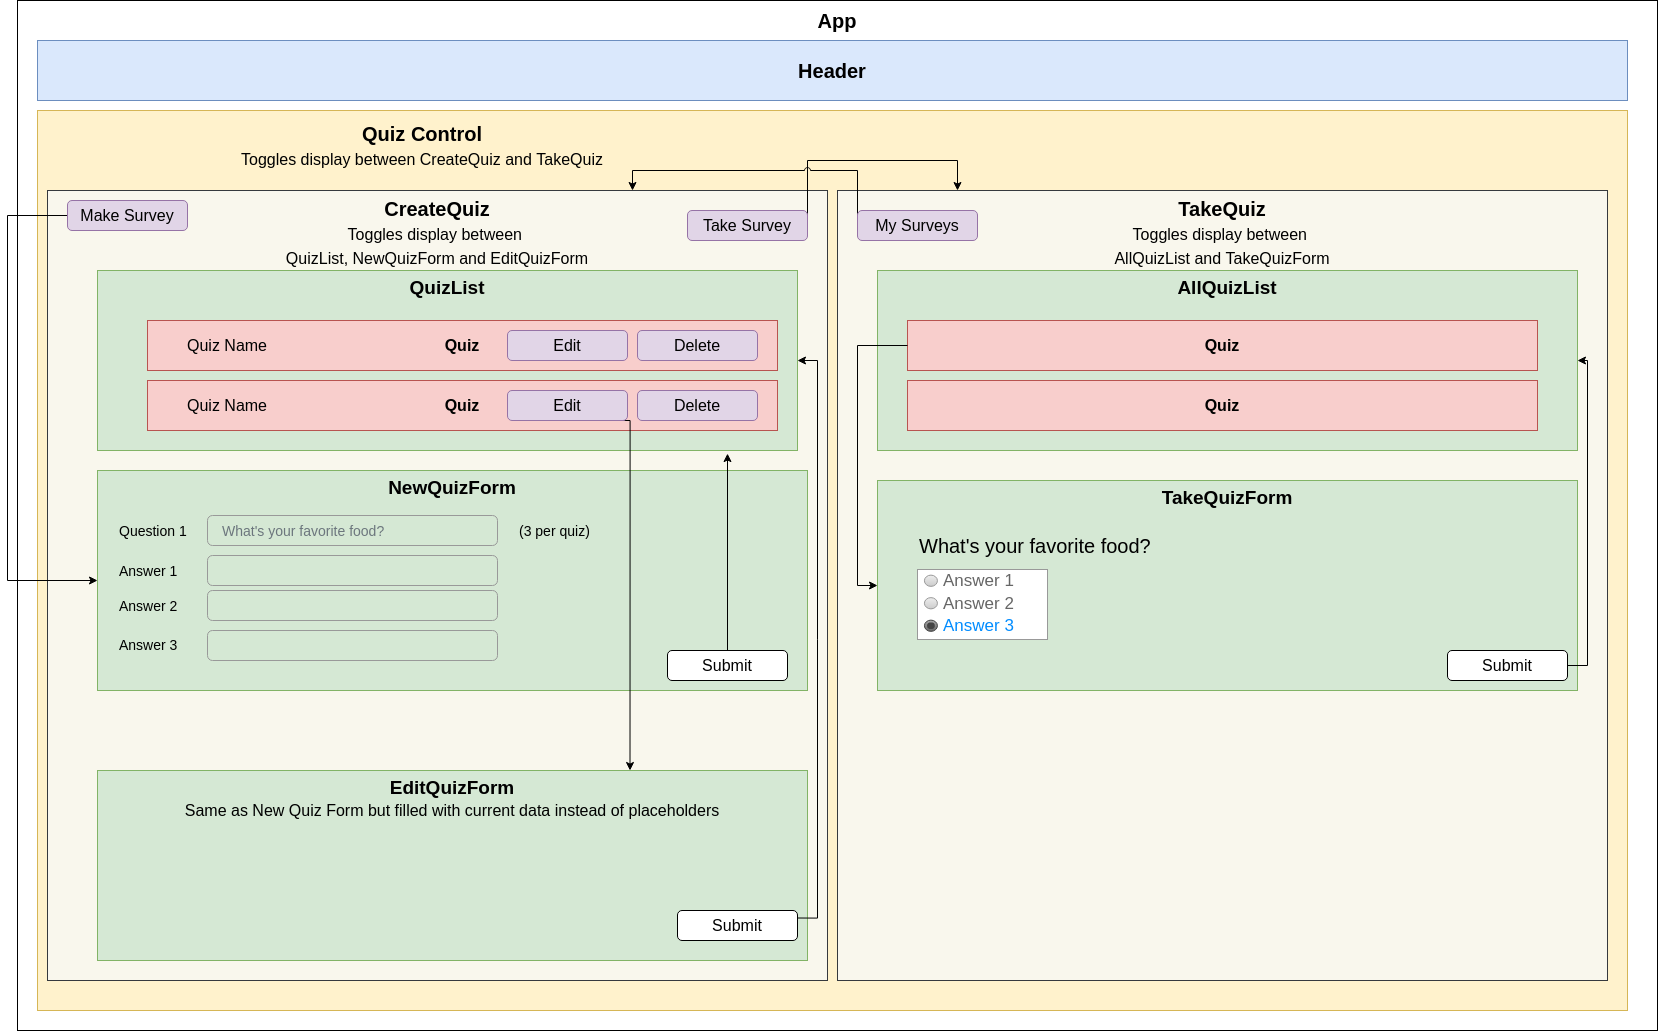
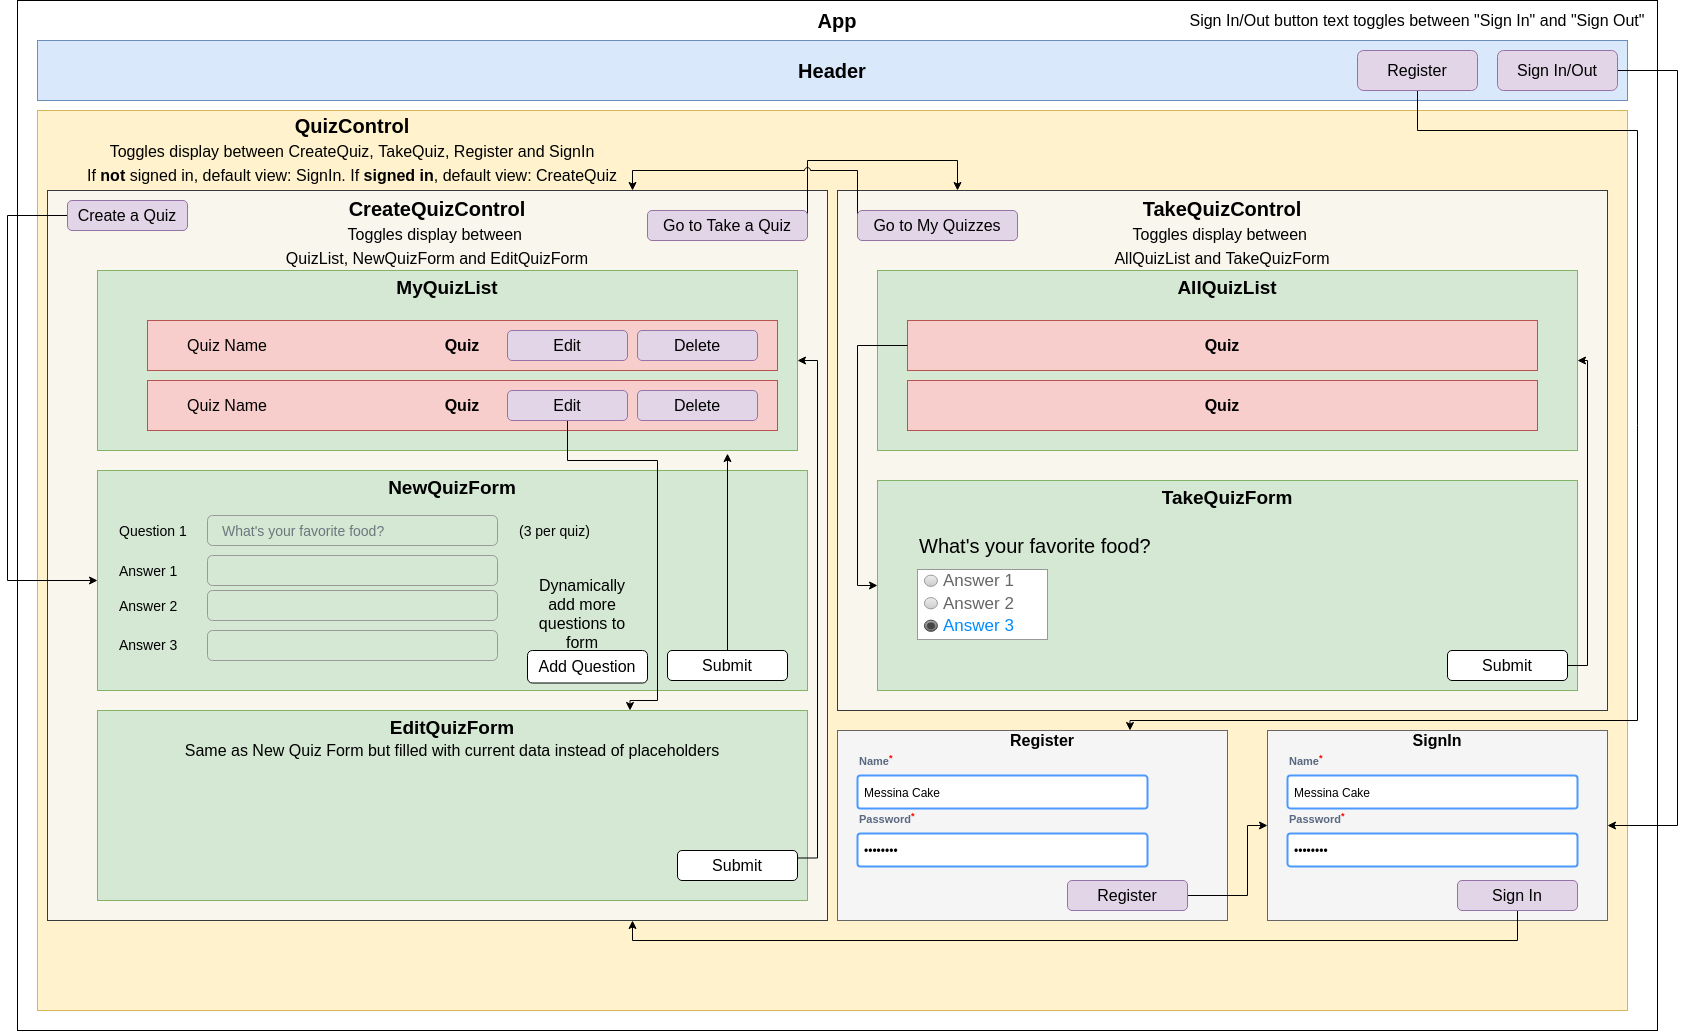
Update wireframe in README

diff --git a/src/components/TakeQuiz/TakeQuizControl.js b/src/components/TakeQuiz/TakeQuizControl.js
@@ -9,19 +9,23 @@ function TakeQuizControl(props) {
   const [selectedQuiz, setQuiz] = useState(null);
 
   const handleChangingSelectedQuiz = (id) => {
-    props.firestore.get({
-      collection: 'quizzes', 
-      doc: id
-    }).then((quiz) => {
-      const firestoreQuiz = {
-        quizName: quiz.quizName
-        // names: ticket.get("names"),
-        // location: ticket.get("location"),
-        // issue: ticket.get("issue"),
-        // id: ticket.id
-      }
-      setQuiz(firestoreQuiz);
-    })
+    if (selectedQuiz == null) {
+        props.firestore.get({
+        collection: 'quizzes', 
+        doc: id
+      }).then((quiz) => {
+        const firestoreQuiz = {
+          quizName: quiz.quizName
+          // names: ticket.get("names"),
+          // location: ticket.get("location"),
+          // issue: ticket.get("issue"),
+          // id: ticket.id
+        }
+        setQuiz(firestoreQuiz);
+      })
+    } else {
+      setQuiz(null);
+    }
   }
 
   let currentlyVisibleState;
@@ -30,7 +34,7 @@ function TakeQuizControl(props) {
     if (selectedQuiz != null) {
       currentlyVisibleState = 
       <TakeQuizForm 
-        quiz = {selectedQuiz}
+        quiz = {selectedQuiz}  onQuizSelection={handleChangingSelectedQuiz}
         />;
       // <button onClick={() => {setQuiz(null)}}>Back to Quiz List</button>
     } else {

diff --git a/src/components/Register.js b/src/components/Register.js
@@ -1,0 +1,38 @@
+import React from 'react';
+import firebase from 'firebase/app';
+
+function Register(){
+
+  function Register(event){
+    event.preventDefault();
+    const email = event.target.email.value;
+    const password = event.target.password.value;
+
+    firebase.auth().createUserWithEmailAndPassword(email, password).then( () => {
+      console.log('successfully signed up!');
+    }).catch((error) => {
+      console.log(error.message);
+    });
+  }
+
+  return (
+    <React.Fragment>
+      <h1>Register</h1>
+        <input
+          type='text'
+          name='email'
+          placeholder='email'
+        />
+        <input
+          type='password'
+          name='password'
+          placeholder='Password'
+        />
+        <button type='submit'>Register</button>
+      <form>
+
+      </form>
+
+    </React.Fragment>
+  )
+}

diff --git a/src/index.js b/src/index.js
@@ -10,13 +10,16 @@ import firebase from "./firebase";
 import rootReducer from './reducers/index';
 import { Provider } from 'react-redux';
 import { createStore } from 'redux';
+import firebase from './firebase';
+import 'firebase/auth'
 
 const store = createStore(rootReducer, window.__REDUX_DEVTOOLS_EXTENSION__ && window.__REDUX_DEVTOOLS_EXTENSION__());
 
 const rrfProps = {
   firebase,
   config: {
-    userProfile: "users"
+    userProfile: "users",
+    useFirestoreForProfile: true,
   },
   dispatch: store.dispatch,
   createFirestoreInstance

diff --git a/src/components/CreateQuiz/CreateQuizControl.js b/src/components/CreateQuiz/CreateQuizControl.js
@@ -24,13 +24,13 @@ function CreateQuizControl() {
       <NewQuizForm 
         onNewQuizCreation={handleNewQuizFormVisible}
       />;
-      buttonText = "Back to My Surveys";
+      buttonText = "Back to My Quizzes";
     } else if (editQuizFormVisible) {
       // currentlyVisibleComponent = <EditQuizForm />;
       // buttonText = "Back to My Surveys";
     } else {
       currentlyVisibleComponent = <MyQuizList />;
-      buttonText = "Make Survey";
+      buttonText = "Create a Quiz";
     }
   }
 

diff --git a/src/components/TakeQuiz/TakeQuizForm.js b/src/components/TakeQuiz/TakeQuizForm.js
@@ -1,11 +1,19 @@
 import React from 'react';
+import PropTypes from 'prop-types';
 
-function TakeQuizForm() {
+function TakeQuizForm(props) {
   return (
     <React.Fragment>
       <p>TakeQuizForm</p>
+      <h1>{props.quizName}</h1>
+      <button onClick={() => {props.onQuizSelection()}}>Return to Quiz List</button>
     </React.Fragment>
   );
 }
+
+TakeQuizForm.propTypes = {
+  onQuizSelection: PropTypes.func
+};
+  
 
 export default TakeQuizForm;

diff --git a/src/components/QuizControl.js b/src/components/QuizControl.js
@@ -20,10 +20,10 @@ function QuizControl() {
   const setVisibility = () => {
     if (takeQuizControlVisible) {
       currentlyVisibleComponent = <TakeQuizControl />;
-      buttonText="Go to My Surveys";
+      buttonText="Go to My Quizzes";
     } else {
       currentlyVisibleComponent = <CreateQuizControl />;
-      buttonText="Go to Take Surveys";
+      buttonText="Go to Take a Quiz";
     }
   }
 

diff --git a/src/components/Signin.js b/src/components/Signin.js
@@ -1,0 +1,1 @@
+import firebase from "firebase/app";

diff --git a/README.md b/README.md
@@ -1,6 +1,6 @@
 # _[Firebase Quiz](https://github.com/ayohana/quiz-firebase)_
 
-#### _Intro to Firebase, 05.04.2020_
+#### _Intro to Firebase, 05.04.2020 - 05.05.2020_
 
 #### By _**Tiffany Siu, Adela Darmansyah, Rachel Schieferstein**_
 
